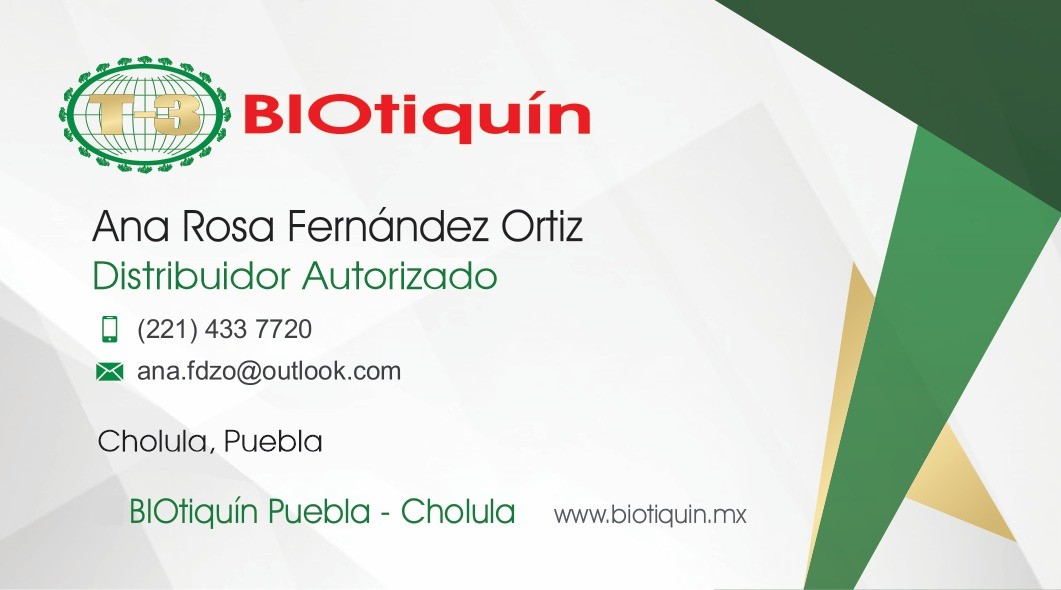
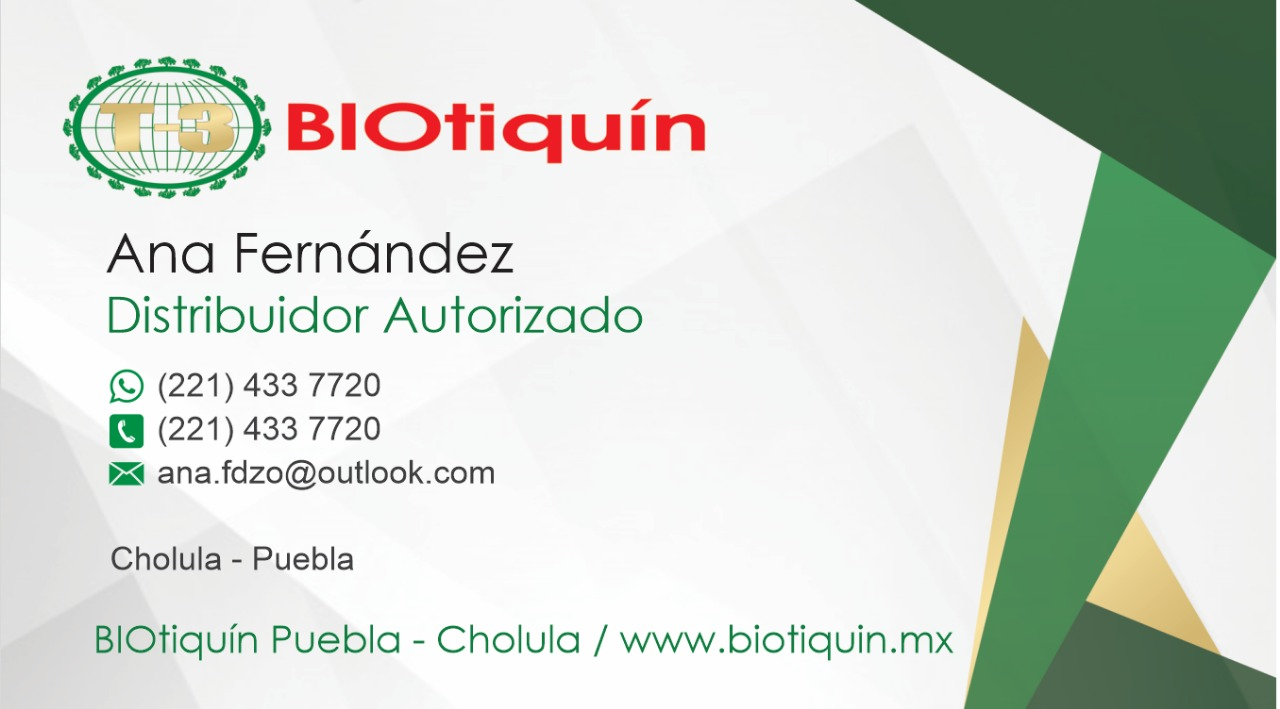
commit 160919

diff --git a/index.html b/index.html
@@ -35,7 +35,7 @@
             <div class="sidebar-header">
               <ul class="nav navbar-nav mx-auto d-block">
                       <li class="nav-item active">
-                            <a class="navbar-brand" href="#"><img src="img/logosidebarlong.png" style="width="300" height="150"" alt=""></a>
+                            <a class="navbar-brand" href="#"><img class= "mx-auto" src="img/Logo cortononame.png" style="width="300" height="130" "alt=""></a>
                       </li>
                     </ul>
             </div>
@@ -79,7 +79,7 @@
 
                     <ul class="nav navbar-nav">
                       <li class="nav-item">
-          <a href="header-carrusel" class="navbar-brand nav-link img-responsive"><img src="img/logo.png" "style="width="80px" height="50px"></a>
+          <a href="header-carrusel" class="navbar-brand nav-link img-responsive"><img src="img/logononame.png" "style="width="80px" height="50px"></a>
       </li>
       </ul>
 
@@ -380,7 +380,7 @@
         <!-- Sección imagen de datos -->
         <section id="contactoheader" style="background:#F0FFFF">
         <div class="container mt-5 col-lg-8 col-md-12 col-sm-12">
-        <img class="img-fluid" src="img/contactotr.png" style="width: 100%">
+        <img class="img-fluid" src="img/contactodatosnoname.png" style="width: 100%">
         </div>
       </section>
 
